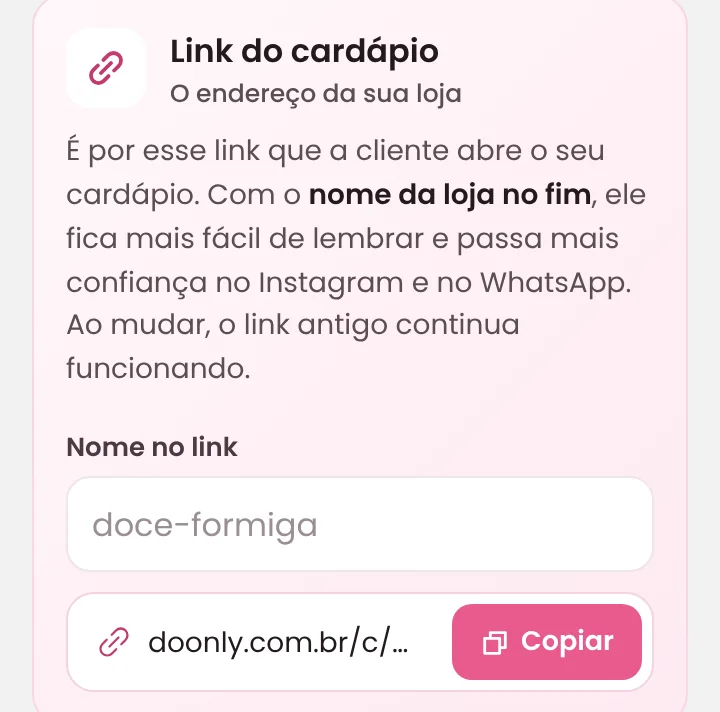
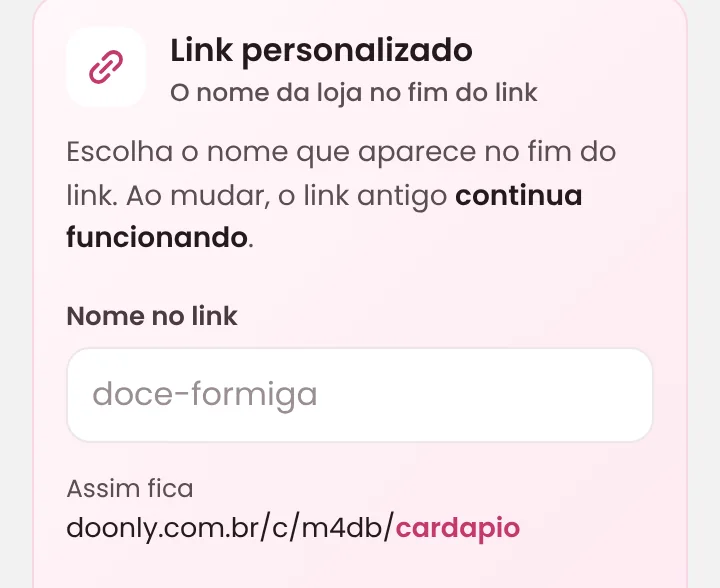
5.91: Aparência › Link personalizado (sem Copiar)
- PRO: nome no link, 'Assim fica' e Salvar link
- Grátis: Hoje × No PRO lado a lado e Conhecer o PRO
- Ajuda atualizada com o print novo

Claude-Session: https://claude.ai/code/session_01Tr1mYrTU9rTShFnbh3vuaV

diff --git a/src/components/loja/NomeNoLink.tsx b/src/components/loja/NomeNoLink.tsx
@@ -1,12 +1,11 @@
 import { useEffect, useState } from "react";
-import { Copy, Crown, LinkSimple } from "@phosphor-icons/react";
-import { getCardapioUrl } from "@/hooks/useProfile";
+import { Crown } from "@phosphor-icons/react";
+import { useNavigate } from "react-router-dom";
 import { supabase } from "@/lib/supabase";
 import { explicarErro } from "@/lib/erros";
 import { Botao, Campo, avisar } from "@/components/base";
 import { useProfile, refreshProfile } from "@/hooks/useProfile";
 import { usePlano } from "@/hooks/usePlano";
-import RecursoPro from "@/components/billing/RecursoPro";
 
 /** "Doce Formiga!" → "doce-formiga": sem acento, minúsculo, hífen no lugar dos espaços (até 40 letras) */
 export function paraNomeNoLink(t: string): string {
@@ -26,7 +25,7 @@ export default function NomeNoLink() {
   const atual = String((profile as any)?.slug_personalizado || "");
   const [nome, setNome] = useState(atual);
   const [salvando, setSalvando] = useState(false);
-  const [proAberto, setProAberto] = useState(false);
+  const navigate = useNavigate();
   useEffect(() => { setNome(atual); }, [atual]);
   const codigo = (profile as any)?.codigo_publico || "";
   if (!profile?.id || !codigo) return null;
@@ -50,24 +49,16 @@ export default function NomeNoLink() {
     setSalvando(false);
   };
 
-  // (30/10 · 5.54) o link numa pílula branca com "Copiar", em destaque
-  const copiar = async () => {
-    try { await navigator.clipboard.writeText(getCardapioUrl(profile)); avisar("Link copiado", { tipo: "ok" }); }
-    catch { avisar("Não deu para copiar. Tente de novo.", { tipo: "erro" }); }
-  };
-  const pilula = (fim: string) => (
-    <div className="nnl-pill">
-      <LinkSimple size={18} aria-hidden="true" />
-      <span>doonly.com.br/c/{codigo}/<b>{fim}</b></span>
-      <button type="button" onClick={copiar}><Copy size={15} weight="bold" aria-hidden="true" />Copiar</button>
-    </div>
-  );
+  // (31/10 · 5.91) aqui é para personalizar o link, não para copiar (copiar fica em Minha loja / Visão geral)
+  const linha = (fim: string, cls = "") => <span className={`nnl-url ${cls}`.trim()}>doonly.com.br/c/{codigo}/<b>{fim}</b></span>;
 
   if (!isPro) return (
-    <div className="nnl">
-      {pilula("cardapio")}
-      <Botao variante="suave" tamanho="m" icone={<Crown size={18} weight="fill" />} onClick={() => setProAberto(true)}>Usar o nome da loja</Botao>
-      {proAberto && <RecursoPro titulo="Nome da loja no link" texto={`No PRO o seu link fica doonly.com.br/c/${codigo}/${sugestao || "nome-da-loja"}, mais fácil de lembrar e de divulgar.`} onClose={() => setProAberto(false)} />}
+    <div className="nnl nnl--gratis">
+      <div className="nnl-comp">
+        <p><small>Hoje</small>{linha("cardapio", "nnl-url--hoje")}</p>
+        <p><small>No PRO</small>{linha(sugestao || "nome-da-loja", "nnl-url--pro")}</p>
+      </div>
+      <Botao variante="vinho" tamanho="m" icone={<Crown size={18} weight="fill" />} onClick={() => navigate("/assinar")}>Conhecer o PRO</Botao>
     </div>
   );
 
@@ -75,7 +66,8 @@ export default function NomeNoLink() {
     <div className="nnl">
       <Campo rotulo="Nome no link" placeholder={sugestao || "nome-da-loja"} value={nome} erro={erro}
         onChange={e => setNome(e.target.value.toLowerCase())} autoCapitalize="none" autoCorrect="off" spellCheck={false} />
-      {pilula(limpo || "cardapio")}
+      <p className="nnl-assim"><small>Assim fica</small>{linha(limpo || "cardapio", "nnl-url--pro")}</p>
+      {!nome && sugestao && <Botao variante="link" tamanho="p" onClick={() => setNome(sugestao)}>Usar “{sugestao}”</Botao>}
       {mudou && <Botao tamanho="m" carregando={salvando} onClick={salvar}>Salvar link</Botao>}
     </div>
   );

diff --git a/src/pages/aparencia.css b/src/pages/aparencia.css
@@ -411,3 +411,17 @@ body .ap-tirar.ui-bti { background: rgba(255,255,255,.94); color: var(--ui-texto
 }
 /* (31/10 · 5.84) celular: "Ver como fica" vira só o olho, e "Foto do topo" / "Atrás do nome" cabem numa linha */
 @media (max-width: 420px) { .ap-vcf-t { display: none; } .ap-vcf.ui-bt { width: 40px; padding: 0; gap: 0; justify-content: center; } }
+
+/* (31/10 · 5.91) Link personalizado: sem o "Copiar"; no grátis, o antes (hoje) × depois (PRO) */
+.nnl-url { display: block; min-width: 0; font-size: 14px; color: var(--ui-texto); white-space: nowrap; overflow: hidden; text-overflow: ellipsis; }
+.nnl-url b { font-weight: 600; }
+.nnl-url--hoje { color: var(--ui-texto-3); } .nnl-url--hoje b { font-weight: 500; text-decoration: line-through; }
+.nnl-url--pro b { color: var(--ui-rosa-escuro); }
+.nnl-comp, .nnl-assim { width: 100%; }
+.nnl-comp { display: flex; flex-direction: column; gap: 2px; padding: 12px 14px; border: 1px solid #F3D3E0; border-radius: 14px; background: #FFF7FA; }
+.nnl-comp p, .nnl-assim { display: flex; align-items: baseline; gap: 10px; margin: 0; padding: 4px 0; }
+.nnl-comp small, .nnl-assim small { flex: none; width: 58px; font-size: 12.5px; color: var(--ui-texto-2); }
+/* celular: o nome em cima e o link inteiro embaixo (o fim do link é o que importa e não pode cortar) */
+.nnl-comp p, .nnl-assim { flex-direction: column; align-items: flex-start; gap: 0; }
+.nnl-comp small, .nnl-assim small { width: auto; }
+.nnl-url { max-width: 100%; font-size: 13.5px; }

diff --git a/src/lib/ajudaPontos.ts b/src/lib/ajudaPontos.ts
@@ -9,7 +9,7 @@ export const PONTOS_AJUDA: Record<string, PontosFoto> = {
   '/ajuda/agenda-mes.webp': { w: 720, h: 862, marcas: [[48.51, 1.1, 44.55, 12.06], [19.01, 42.58, 13.73, 12.99], [79.32, 65.78, 13.73, 12.99], [18.08, 79.7, 63.84, 17.05]] },
   '/ajuda/aparencia-banners.webp': { w: 720, h: 938, marcas: [[8.06, 34.96, 41.39, 24.01], [50.56, 34.96, 41.39, 24.01], [8.06, 85.53, 83.89, 11.92]] },
   '/ajuda/aparencia-cores.webp': { w: 720, h: 1002, marcas: [[8.06, 17.06, 83.89, 9.83], [8.06, 50.62, 83.89, 9.83], [8.06, 84.19, 83.89, 9.83]] },
-  '/ajuda/aparencia-link.webp': { w: 720, h: 712, marcas: [[8.06, 59.36, 80.28, 21.71], [61.53, 83.73, 28.75, 12.9]] },
+  '/ajuda/aparencia-link.webp': { w: 720, h: 588, marcas: [[8.06, 49.77, 80.28, 26.28], [8.06, 77.25, 83.89, 18.68]] },
   '/ajuda/aparencia-topo.webp': { w: 720, h: 1024, marcas: [[36.41, 34.63, 27.18, 8.59], [50.56, 55.41, 41.39, 8.59], [10.28, 88.29, 27.18, 8.59]] },
   '/ajuda/assinatura.webp': { w: 720, h: 946, marcas: [[8.06, 34.72, 83.89, 11.13], [8.06, 54.3, 83.89, 6.44], [8.06, 85.22, 41.69, 10.13]] },
   '/ajuda/cadastros.webp': { w: 720, h: 1470, marcas: [[3.33, 0.82, 93.33, 9.79], [3.61, 15.74, 92.78, 9.79], [3.61, 56.92, 92.78, 9.79], [3.61, 80.69, 92.78, 9.79]] },

diff --git a/src/pages/CardapioDesign.tsx b/src/pages/CardapioDesign.tsx
@@ -445,8 +445,11 @@ export default function CardapioDesign({ identityCard, avaliacoesCard: _avaliaco
 
 
       <section className="ap-card ap-largo ap-sec-link">
-        <Cabeca Ic={LinkSimple} titulo="Link do cardápio" apoio="O endereço da sua loja" />
-        <p className="ap-exp">É por esse link que o cliente abre o seu cardápio. Com o <b>nome da loja no fim</b>, ele fica mais fácil de lembrar e passa mais confiança no Instagram e no WhatsApp. Ao mudar, o link antigo continua funcionando.</p>
+        <Cabeca Ic={LinkSimple} titulo="Link personalizado" apoio={isPro ? "O nome da loja no fim do link" : "Recurso do plano PRO"} />
+        {/* (31/10 · 5.91) aqui é para personalizar (PRO); no grátis, o cartão mostra o que muda no link */}
+        <p className="ap-exp">{isPro
+          ? <>Escolha o nome que aparece no fim do link. Ao mudar, o link antigo <b>continua funcionando</b>.</>
+          : <>No PRO, o link do cardápio leva o <b>nome da sua loja</b>: fica mais fácil de lembrar e passa mais confiança no Instagram e no WhatsApp.</>}</p>
         <NomeNoLink />
       </section>
       </div>

diff --git a/src/lib/ajuda.ts b/src/lib/ajuda.ts
@@ -713,10 +713,10 @@ export const ARTIGOS: ArtigoAjuda[] = [
       },
       {
         id: 'link',
-        titulo: 'Nome no link (PRO)',
-        imagens: [{ src: '/ajuda/aparencia-link.webp', alt: 'Nome da loja no link do cardápio', marcas: [
+        titulo: 'Link personalizado (PRO)',
+        imagens: [{ src: '/ajuda/aparencia-link.webp', alt: 'Nome da loja no fim do link do cardápio', marcas: [
           'Escreva o **nome** da loja.',
-          '**Copiar** o link.',
+          'Veja **como fica** o link.',
         ] }],
         dica: 'Mudou? O link antigo **continua** funcionando.',
       },

diff --git a/src/lib/versao.ts b/src/lib/versao.ts
@@ -2,4 +2,4 @@
  * Versão do app — aparece no menu da foto e vai junto nas sugestões e nos problemas relatados.
  * A cada atualização publicada, sobe 1 no número depois do ponto: 2.0 → 2.1 → 2.2 …
  */
-export const VERSAO_APP = "5.90";
+export const VERSAO_APP = "5.91";
